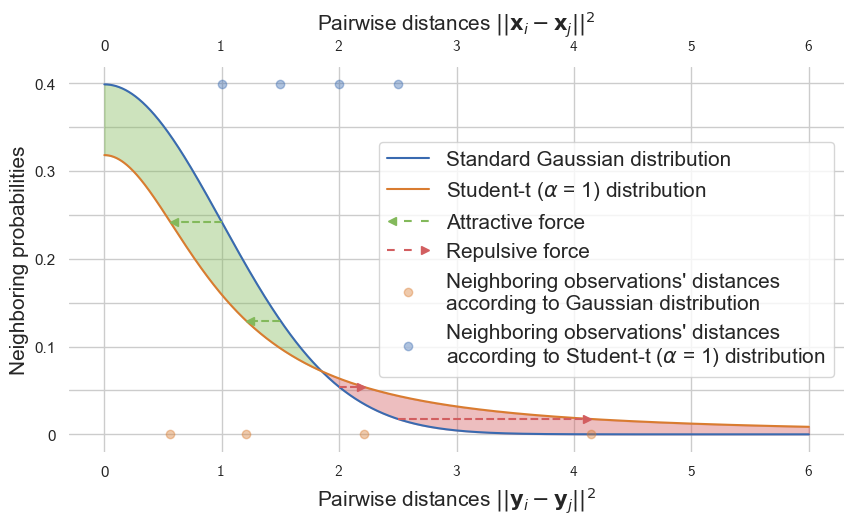
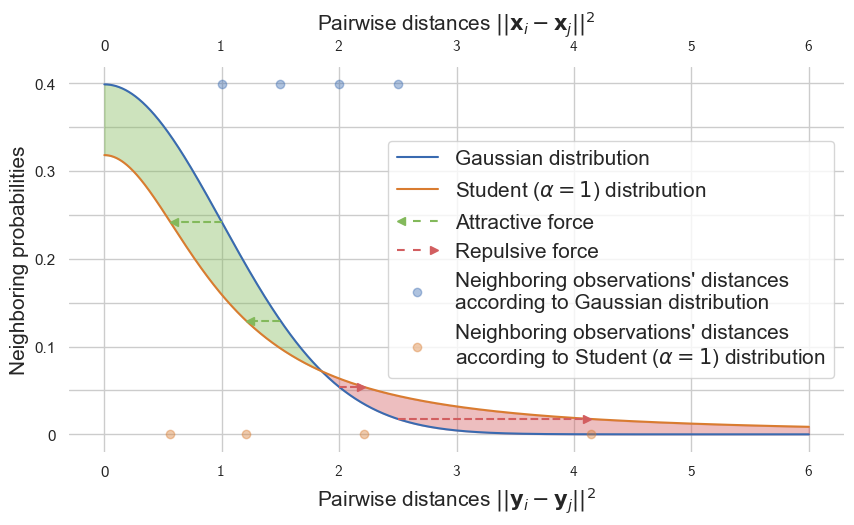
do not run alternative cost functions with exaggeration
some plots

Changed region(s): [[0.4567, 0.2438, 0.9742, 0.7314], [0.4567, 0.64, 0.5176, 0.6705]]

diff --git a/thesis_plot.py b/thesis_plot.py
@@ -1,6 +1,7 @@
 #!/usr/bin/env python
 
 import matplotlib.pyplot as plt
+from functools import partial
 import math
 import numpy as np
 from mnist import load_fashion_mnist_data
@@ -24,9 +25,9 @@ grey = (83 / 256, 81 / 256, 84 / 256)
 ercis = (146 / 256, 36 / 256, 40 / 256)
 
 
-def find_x_given_y(x_lim_low, x_lim_high, y_value, y_function, *y_args):
+def find_x_given_y(x_lim_low, x_lim_high, y_value, y_function):
     x = np.linspace(x_lim_low, x_lim_high, 10000)
-    y = y_function(x, *y_args)
+    y = y_function(x)
 
     rev_x = x[::-1]
     rev_y = y[::-1]
@@ -211,13 +212,47 @@ def get_intersection(f, g):
     return np.argwhere(np.diff(np.sign(f - g))).flatten()
 
 
-def plot_gaussian_student_distance_shift(x_lim_low, x_lim_high, *x_values, alpha=1):
+def plot_gaussian_student_distance_shift(x_lim_low, x_lim_high, *x_values, alpha=1, high_dim_pdf="gaussian", low_dim_pdf="student1"):
     mu = 0
     variance = 1
     sigma = math.sqrt(variance)
     x = np.linspace(x_lim_low, mu + x_lim_high * sigma, 10000)
 
-    idx = get_intersection(alpha * stats.norm.pdf(x, mu, sigma), stats.t.pdf(x, 1))[0]
+    if high_dim_pdf == "gaussian":
+        hfunc = partial(stats.norm.pdf, loc=mu, scale=sigma)
+        hlabel = "Gaussian"
+        htitle = "gaussian"
+    elif high_dim_pdf == "laplacian":
+        hfunc = partial(stats.laplace.pdf, loc=mu, scale=sigma)
+        hlabel = "Laplace"
+        htitle = "laplacian"
+    elif high_dim_pdf == "student50":
+        hfunc = partial(stats.t.pdf, df=50)
+        hlabel = "Student-t ($\\alpha=50$)"
+        htitle = "student50"
+    else:
+        hfunc = partial(stats.norm.pdf, loc=mu, scale=sigma)
+        hlabel = "Gaussian"
+        htitle = "gaussian"
+
+    if low_dim_pdf == "chi":
+        lfunc = partial(stats.chi2.pdf, df=2)
+        llabel = "Chi-squared"
+        ltitle = "chi2"
+    elif low_dim_pdf == "student05":
+        lfunc = partial(stats.t.pdf, df=0.5)
+        llabel = "Student-t ($\\alpha=0.5$)"
+        ltitle = "student05"
+    elif low_dim_pdf == "student01":
+        lfunc = partial(stats.t.pdf, df=0.1)
+        llabel = "Student-t ($\\alpha=0.1$)"
+        ltitle = "student01"
+    else:
+        lfunc = partial(stats.t.pdf, df=1)
+        llabel = "Student-t ($\\alpha=1$)"
+        ltitle = "student1"
+
+    idx = get_intersection(alpha * hfunc(x), 0.5 * lfunc(x))[0]
 
 
     y_min = -0.019945552964581167
@@ -235,34 +270,34 @@ def plot_gaussian_student_distance_shift(x_lim_low, x_lim_high, *x_values, alpha
     marker_adjustment = .03
 
     plt.figure(figsize=(10, 5))
-    plt.plot(x, alpha * stats.norm.pdf(x, mu, sigma), linestyle="-", color=blue, linewidth=1.5, label="Standard Gaussian distribution")
-    plt.plot(x, stats.t.pdf(x, 1), linestyle="-", color=orange, linewidth=1.5, label=r"Student-t ($\alpha$ = 1) distribution")
-    plt.fill_between(x_1, alpha * stats.norm.pdf(x_1, mu, sigma), stats.t.pdf(x_1, 1), alpha=0.4, color=green)
-    plt.fill_between(x_2, alpha * stats.norm.pdf(x_2, mu, sigma), stats.t.pdf(x_2, 1), alpha=0.4, color=red)
+    plt.plot(x, alpha * hfunc(x), linestyle="-", color=blue, linewidth=1.5, label="{} distribution".format(hlabel))
+    plt.plot(x, 0.5 * lfunc(x), linestyle="-", color=orange, linewidth=1.5, label="{} distribution".format(llabel))
+    plt.fill_between(x_1, alpha * hfunc(x_1), 0.5 * lfunc(x_1), alpha=0.4, color=green)
+    plt.fill_between(x_2, alpha * hfunc(x_2), 0.5 * lfunc(x_2), alpha=0.4, color=red)
     for x_val in x_values:
         d = None
         if x_val < x[idx]:
-            a, =plt.plot([x_val, find_x_given_y(x_lim_low, x_lim_high, alpha * stats.norm.pdf(x_val, mu, sigma), stats.t.pdf, 1) + marker_adjustment],
-                     [alpha * stats.norm.pdf(x_val, mu, sigma), alpha * stats.norm.pdf(x_val, mu, sigma)], linestyle='--', color=green)
-            b, =plt.plot(find_x_given_y(x_lim_low, x_lim_high, alpha * stats.norm.pdf(x_val, mu, sigma), stats.t.pdf, 1) + marker_adjustment,
-                        alpha * stats.norm.pdf(x_val, mu, sigma), linestyle='',
+            a, =plt.plot([x_val, find_x_given_y(x_lim_low, x_lim_high, alpha * hfunc(x_val), lfunc) + marker_adjustment],
+                     [alpha * hfunc(x_val), alpha * hfunc(x_val)], linestyle='--', color=green)
+            b, =plt.plot(find_x_given_y(x_lim_low, x_lim_high, alpha * hfunc(x_val), lfunc) + marker_adjustment,
+                        alpha * hfunc(x_val), linestyle='',
                         marker='<', color=green, markersize=6, zorder=100)
-            lowdim, = plt.plot(find_x_given_y(x_lim_low, x_lim_high, alpha * stats.norm.pdf(x_val, mu, sigma), stats.t.pdf, 1), 0, linestyle='', markeredgewidth=1,
+            lowdim, = plt.plot(find_x_given_y(x_lim_low, x_lim_high, alpha * hfunc(x_val), lfunc), 0, linestyle='', markeredgewidth=1,
                          marker="o", markerfacecolor=orange, markeredgecolor=orange, markersize=6, zorder=100, alpha=0.4)
-            highdim, = plt.plot(x_val, alpha * stats.norm.pdf(0, mu, sigma), linestyle='', markeredgewidth=1,
+            highdim, = plt.plot(x_val, alpha * hfunc(0), linestyle='', markeredgewidth=1,
                          marker="o", markerfacecolor=blue, markeredgecolor=blue, markersize=6, zorder=100, alpha=0.4)
 
         else:
-            d, =plt.plot([x_val, find_x_given_y(x_lim_low, x_lim_high, alpha * stats.norm.pdf(x_val, mu, sigma), stats.t.pdf, 1)- marker_adjustment],
-                     [alpha * stats.norm.pdf(x_val, mu, sigma), alpha * stats.norm.pdf(x_val, mu, sigma)], linestyle='--', color=red)
-            e, =plt.plot(find_x_given_y(x_lim_low, x_lim_high, alpha * stats.norm.pdf(x_val, mu, sigma), stats.t.pdf, 1) - marker_adjustment,
-                        alpha * stats.norm.pdf(x_val, mu, sigma), linestyle='',
+            d, =plt.plot([x_val, find_x_given_y(x_lim_low, x_lim_high, alpha * hfunc(x_val), lfunc)- marker_adjustment],
+                     [alpha * hfunc(x_val), alpha * hfunc(x_val)], linestyle='--', color=red)
+            e, =plt.plot(find_x_given_y(x_lim_low, x_lim_high, alpha * hfunc(x_val), lfunc) - marker_adjustment,
+                        alpha * hfunc(x_val), linestyle='',
                         marker='>', color=red, markersize=6, zorder=100)
             lowdim, = plt.plot(
-                find_x_given_y(x_lim_low, x_lim_high, alpha * stats.norm.pdf(x_val, mu, sigma), stats.t.pdf, 1), 0,
+                find_x_given_y(x_lim_low, x_lim_high, alpha * hfunc(x_val), lfunc), 0,
                 linestyle='', markeredgewidth=1,
                 marker="o", markerfacecolor=orange, markeredgecolor=orange, markersize=6, zorder=100, alpha=0.4)
-            highdim, = plt.plot(x_val, alpha * stats.norm.pdf(0, mu, sigma), linestyle='', markeredgewidth=1,
+            highdim, = plt.plot(x_val, alpha * hfunc(0), linestyle='', markeredgewidth=1,
                                marker="o", markerfacecolor=blue, markeredgecolor=blue, markersize=6, zorder=100,
                                alpha=0.4)
 
@@ -289,8 +324,8 @@ def plot_gaussian_student_distance_shift(x_lim_low, x_lim_high, *x_values, alpha
     handles_, labels_ = ax.get_legend_handles_labels()
 
     handles.extend([highdim, lowdim])
-    labels.extend(["Neighboring observations' distances\naccording to Gaussian distribution",
-                   "Neighboring observations' distances\naccording to Student-t ($\\alpha$ = 1) distribution"])
+    labels.extend(["Neighboring observations' distances\naccording to {} distribution".format(hlabel),
+                   "Neighboring observations' distances\naccording to {} distribution".format(llabel)])
 
     handles_.extend(handles)
     labels_.extend(labels)
@@ -309,7 +344,7 @@ def plot_gaussian_student_distance_shift(x_lim_low, x_lim_high, *x_values, alpha
     ax.tick_params(right=False, top=False, labelright=False, labeltop=True)
     plt.title("Pairwise distances $|| \mathbf{x}_i - \mathbf{x}_j ||^2$", fontsize=15)
     sns.despine(left=True, right=True, bottom=True, top=True)
-    plt.savefig("gaussian_student_distance_shift_alpha_{}".format(str(alpha)), bbox_inches="tight")
+    plt.savefig("{}_{}_distance_shift_alpha_{}".format(htitle, ltitle, str(alpha)), bbox_inches="tight")
     plt.show()
 
 
@@ -685,7 +720,7 @@ if __name__ == '__main__':
     #plot_initialization_comparison(t_sne=False)
     #plot_theta_1nn_tradeoff()
     #plot_theta_run_time()
-    plot_gaussian_student_distance_shift(0, 6, 1, 1.5, 2, 2.5, alpha=4)
+    plot_gaussian_student_distance_shift(0, 6, 1, 1.5, 2, 2.5, alpha=1, high_dim_pdf="gausian", low_dim_pdf="chi")
 
     #plot_perplexity_trustworthiness()
     #plot_perplexity_time()

diff --git a/evaluation.py b/evaluation.py
@@ -100,8 +100,8 @@ def evaluate_bh_tsne_results(data, labels, root_dir=RESULT_DIR, data_identifier=
                                                task=task)
 
     # temporary additional filter
-    result_list = list(filter(lambda x: "exaggeration" in str(x).split(os.path.sep)
-                                  and str(1) == str(x).split(os.path.sep)[-4]
+    result_list = list(filter(lambda x: "iterations" in str(x).split(os.path.sep)
+                                  and str(1) == str(x).split(os.path.sep)[-2]
                                   #or str(500) in str(x).split(os.path.sep)
                                   #or str(1000) in str(x).split(os.path.sep)
                                   #or str(2330) in str(x).split(os.path.sep)
@@ -124,7 +124,7 @@ if __name__ == '__main__':
     #data, labels = mnist.load_fashion_mnist_data(False, len_sample=7000)
     data, labels = mnist.load_fashion_mnist_data(True)
 
-    evaluate_bh_tsne_results(data, labels, data_identifier='fashion_mnist', algorithm='BHtSNE', task='initial_embeddings')
+    evaluate_bh_tsne_results(data, labels, data_identifier='fashion_mnist', algorithm='BHtSNE', task='output_similarities')
 
 
 

diff --git a/tsne_main.py b/tsne_main.py
@@ -481,6 +481,13 @@ if __name__ == "__main__":
             kwargs = {x[0]: bhtsne.BUILDING_BLOCK_DICT[x[0]][x[1]] for x in building_blocks}
             if exact:
                 kwargs['theta'] = 0.0
+            if argp.cost_function == "RKL" or argp.cost_function == "JS":
+                param_list = [x for x in param_list if x != 'lying_factor']
+                if not param_list:
+                    # if param_list is now empty, quit
+                    print("Exact tsne with RKL cannot be run with theta or exaggeration parameter tuning!")
+                    quit()
+                kwargs['lying_factor'] = 1
             for param in param_list:
                 tsne_workflow(parameter_name=param, value_list=PARAM_DICT[param][0], data=data,
                               data_result_subdirectory=data_name,

diff --git a/tsne_plot.py b/tsne_plot.py
@@ -325,7 +325,7 @@ if __name__ == "__main__":
     load_result_and_plot_single(data, labels,
                                 "C:\\Users\\Tobi\\git\\bhtsne\\results\\BHtSNE\\buildingblocks\\output_similarities\\",
                                 data_filter="fashion_mnist",
-                                mode=1, legend=None, rearrange_legend=True, max_iter_only=True)
+                                mode=2, legend=None, rearrange_legend=True, max_iter_only=True)
 
     # basepath1 = "C:\\Users\\Tobi\\Documents\\SS_19\\Master Thesis\\04 - Experiment Results\\MNIST\\base\\unoptimized sptree\\1"
     # basepath2 = "C:\\Users\\Tobi\\Documents\\SS_19\\Master Thesis\\04 - Experiment Results\\MNIST\\base\\optimized sptree\\1"
